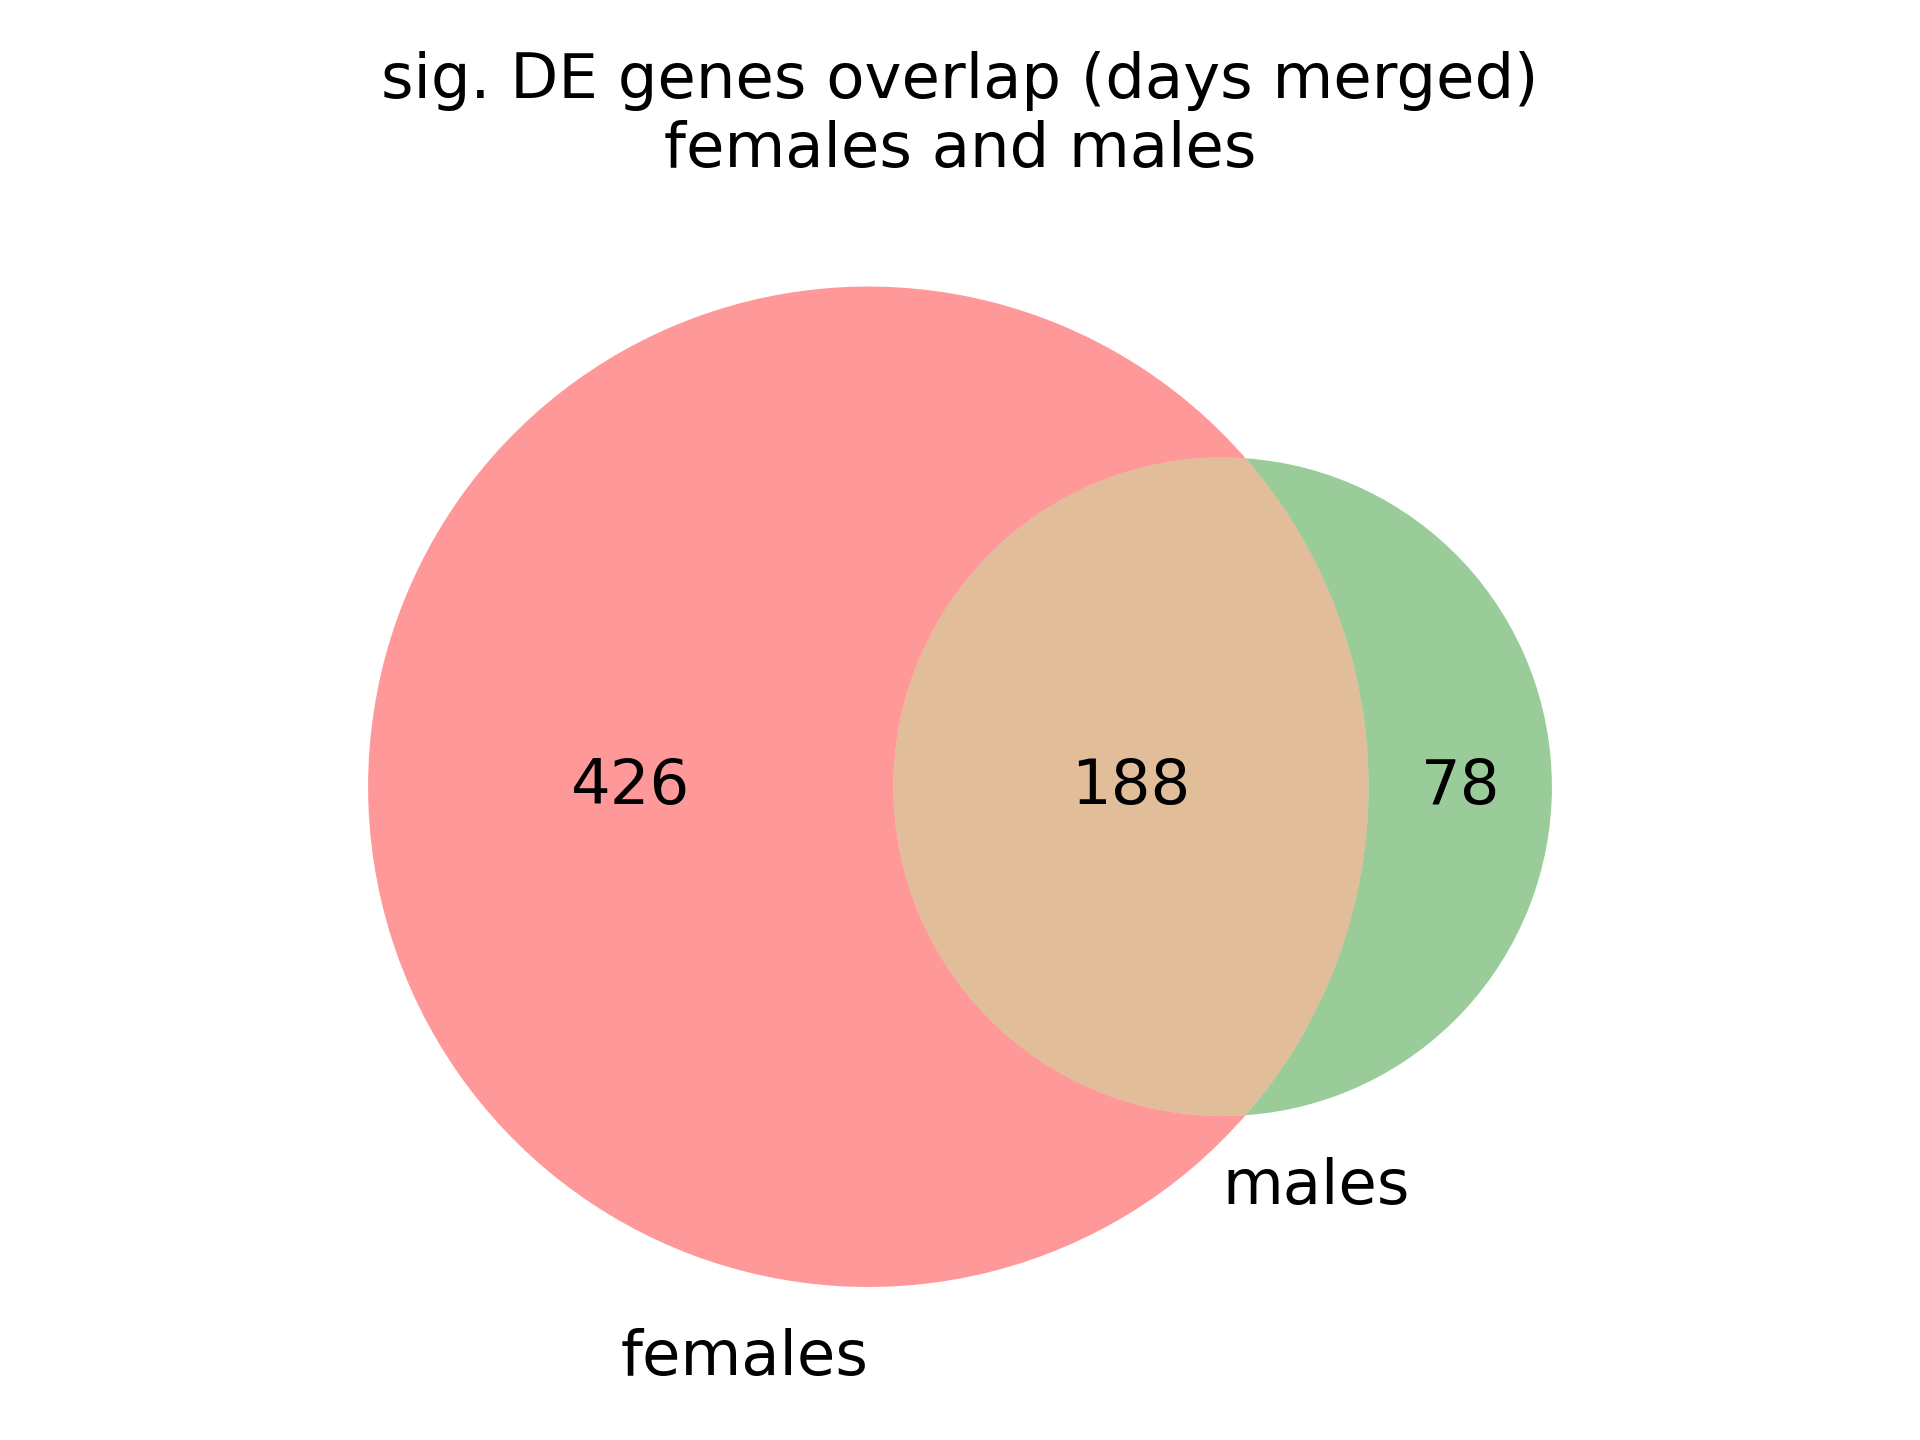
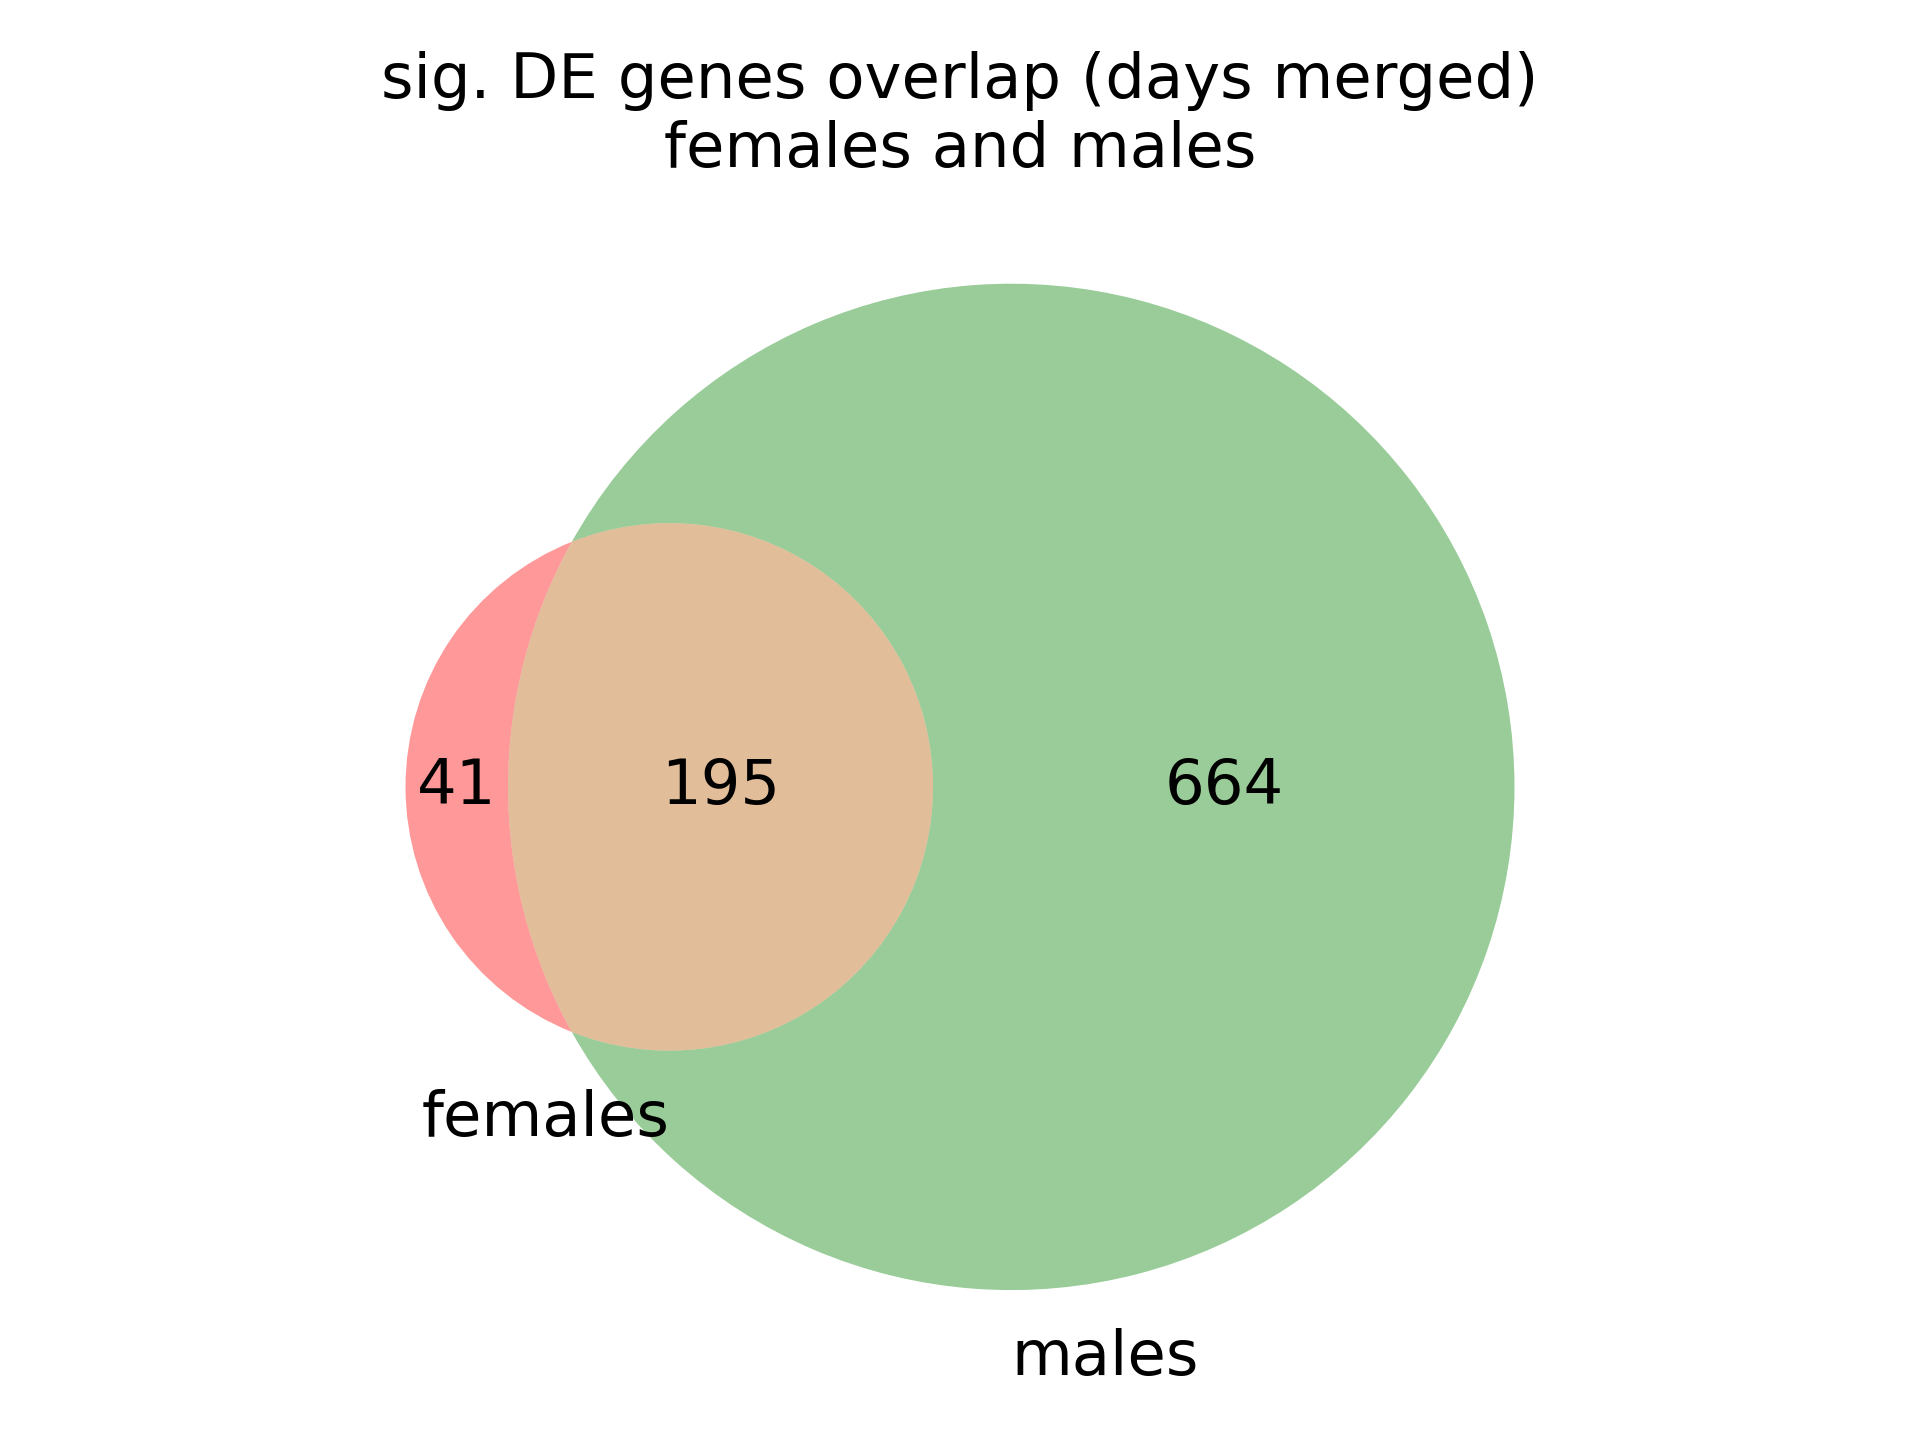
update venn for day control numbers

diff --git a/index.html b/index.html
@@ -634,7 +634,8 @@ PhD Chapter 4, <a href="https://github.com/milena-t/PhD_chapter4">Git repository
  line <- factor(meta_data$line)
  day <- factor(meta_data$day)
  MM <- model.matrix(~ 0+ line + day, data = y$samples)
- colnames(MM) <- c("SL1", "SL3", "day16", "day18")</code></pre>
+ colnames(MM) <- c("SL1", "SL3", "day16", "day18")
+ my.contrasts <- makeContrasts(line_no_time = SL1 - SL3, levels=MM)</code></pre>
 </details>
 
 <div class="tab">

diff --git a/src/plot_DE_stuff.py b/src/plot_DE_stuff.py
@@ -585,7 +585,7 @@ if __name__ == "__main__":
     lists_outdir = f"/Users/{username}/work/PhD_code/PhD_chapter4/data/sig_DE_genes_lists"
     ############
 
-    if True:
+    if False:
         
         if make_upset or make_list_outfiles:
             plot=False
@@ -750,7 +750,7 @@ if __name__ == "__main__":
     ###########################################
 
     ## compare if the same genes are DE between lines within days in males as in females
-    if False:
+    if True:
         venn_sets_day = {
             "sex_separated" : {
                 "day14" : {
@@ -856,7 +856,7 @@ if __name__ == "__main__":
                 print(f"{len(shared_list)} genes : \n{shared_list}")
 
     ## compare sex bias and interaction on full dataset with days merged/ignored
-    if True:
+    if False:
         venn_sets_all = {
             "no_separation" : {
                 "all_samples:sex_bias" : {
